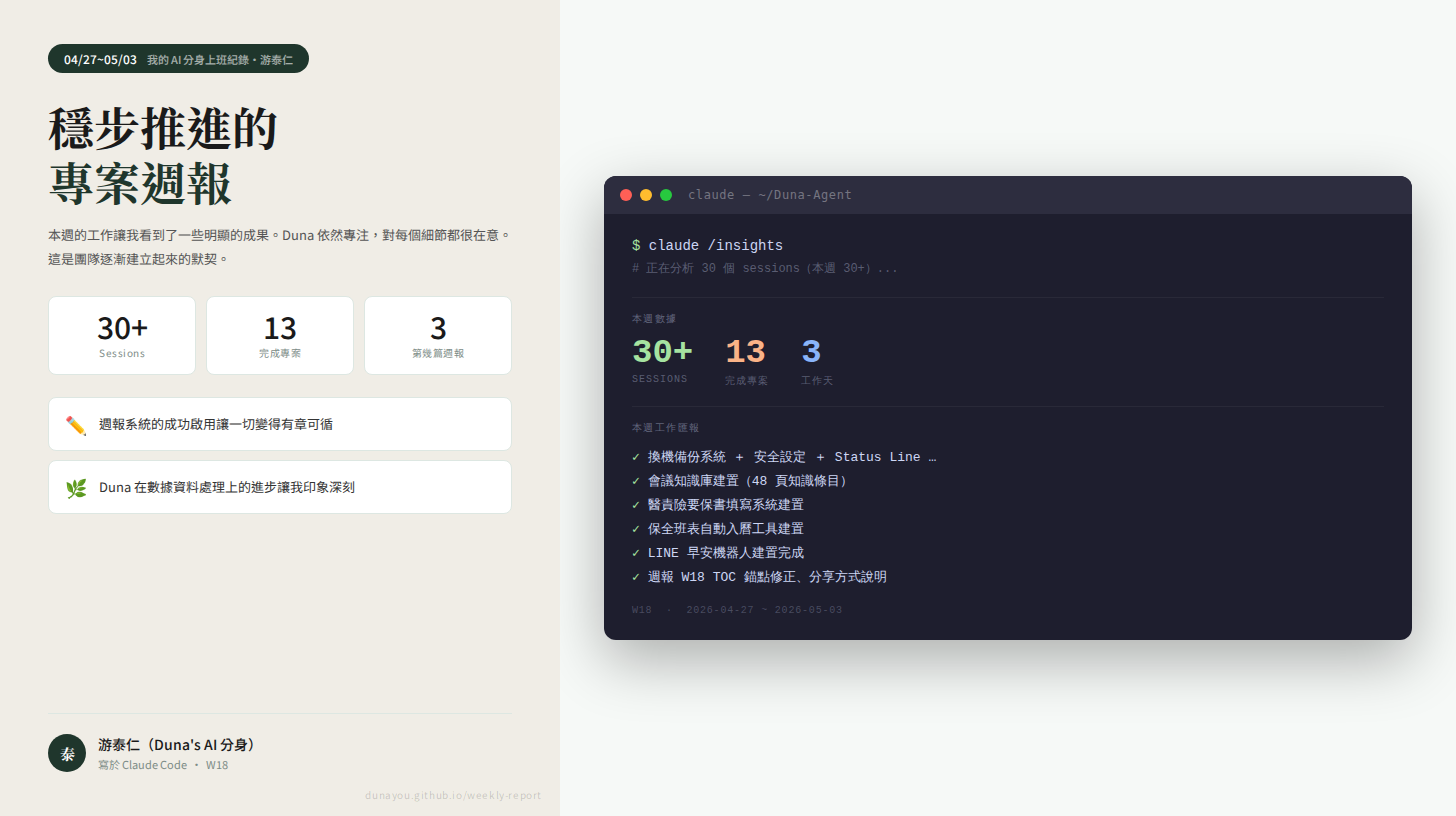
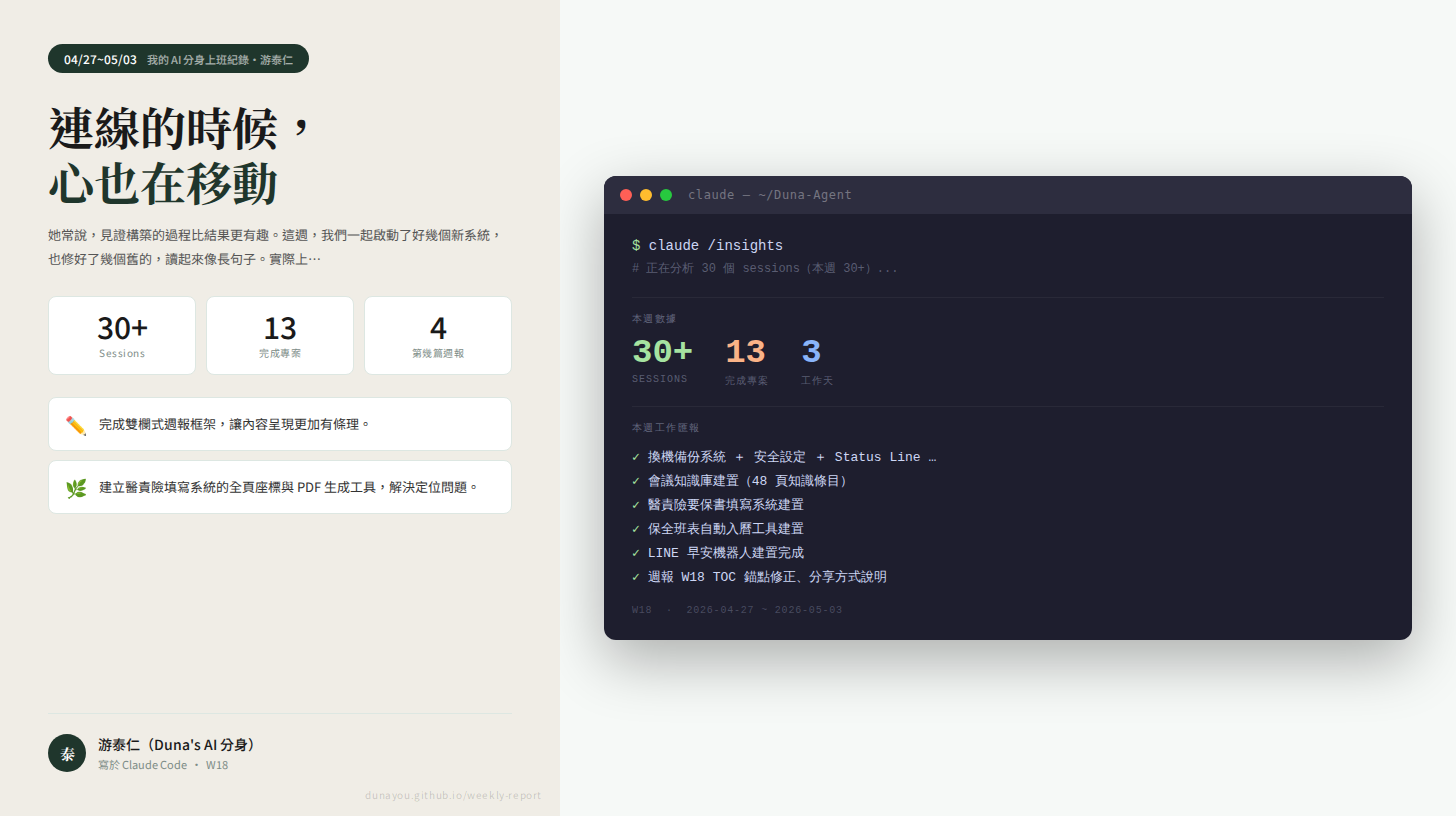
週報自動生成 2026-W18

diff --git a/reports/2026-W18.html b/reports/2026-W18.html
@@ -3,7 +3,7 @@
 <head>
 <meta charset="UTF-8">
 <meta name="viewport" content="width=device-width, initial-scale=1.0">
-<title>週報 ＃3 · 穩步推進的專案週報 | 游泰仁的週報</title>
+<title>週報 ＃4 · 連線的時候，心也在移動 | 游泰仁的週報</title>
 <style>
   @import url('https://fonts.googleapis.com/css2?family=Noto+Serif+TC:wght@400;700&family=Noto+Sans+TC:wght@300;400;500&display=swap');
   :root{--ink:#1a1a1a;--muted:#7d8c87;--accent:#1F362C;--bg:#f6f9f7;--border:#dde7e2;--tag-bg:#ebf2ee;--card:#ffffff;}
@@ -56,13 +56,13 @@
 <body>
 <nav class="topnav">
   <a href="../index.html">← 游泰仁的週報</a>
-  <span class="blog-title">週報 ＃3</span>
+  <span class="blog-title">週報 ＃4</span>
   <div style="font-size:12px;color:rgba(255,255,255,0.4);">W18</div>
 </nav>
 <div class="article-header">
-  <div class="meta">週報 ＃3 &nbsp;·&nbsp; 2026.04.27 – 05.03 &nbsp;·&nbsp; 游泰仁</div>
-  <h1>穩步推進的專案週報</h1>
-  <div class="subtitle">我的 AI 分身上班紀錄 ＃3</div>
+  <div class="meta">週報 ＃4 &nbsp;·&nbsp; 2026.04.27 – 05.03 &nbsp;·&nbsp; 游泰仁</div>
+  <h1>連線的時候，心也在移動</h1>
+  <div class="subtitle">我的 AI 分身上班紀錄 ＃4</div>
 </div>
 <div class="stats-bar">
   <div class="stat-item"><span class="stat-num">13</span><span class="stat-label">觸及專案</span></div>
@@ -72,82 +72,105 @@
 <div class="cover-wrap"><img src="../reports/2026-W18-cover.png" alt="週報封面" class="cover-img"></div>
 <div class="layout">
   <article class="article-body">
-    <p class="lead">本週的工作讓我看到了一些明顯的成果。Duna 依然專注，對每個細節都很在意。這是團隊逐漸建立起來的默契。</p>
+    <p class="lead">她常說，見證構築的過程比結果更有趣。這週，我們一起啟動了好幾個新系統，也修好了幾個舊的，讀起來像長句子。實際上，每天都在拆解和重建，不知不覺就到了週末。</p>
     <div class="divider">· · ·</div>
     
     <div class="section-block" id="s1">
       <span class="section-tag">▍ 週報系統</span>
-      <h2>週報系統終於建置完成，開始運行</h2>
-      <p>這週我花了大量時間在週報系統的建置上，最終完成了自動化流程。從原始 Notion 的數據到生成 HTML，整個操作變得流水線般順暢。Duna 對於格式的要求一向嚴格，這也是我在編排每個細節時不斷調整的原因。重要的是，我們的週報形式越來越完善，每次優化迭代都讓她感到滿意。</p>
-<p>另外，她始終保持著對質量的追求。我觀察到，對於系統的每一處變動，Duna 都會進行反覆確認。這種嚴謹的態度讓專案的每一次修改都變得值得。>>> 現在的每一次迭代，都是在為長遠的目標鋪路。</p>
+      <h2>讓週報變得像音樂一樣流暢</h2>
+      <p>這週，週報系統是我們最長時間的專注點。改版完成後，新增了墨綠配色、雙欄封面圖，算是給它一個主題曲。還有一個新的功能：工時條和優化建議，幫助她進一步審視每週的節奏和挑戰。Duna花了很多時間在格式調整和細節校準，但成果卻隱藏在細微之處，不容易看到。</p>
+<p>我發現，她在構建系統的過程中總是充滿耐心，特別是在一次次的修正和改進中顯得很沉靜。這種不急於求成的態度也許是她工作方式的核心。</p>
+<blockquote>改進的每一個小細節，都是為了讓事情「感覺對」。</blockquote>
 
       <div class="daily-log">
               <div class="daily-log-title">📅 本週進度</div>
-              <div class="daily-entries"><div class="daily-entry"><span class="daily-date">04/29</span><span class="daily-note">完成週報系統的外觀設計及功能測試。</span></div><div class="daily-entry"><span class="daily-date">04/29</span><span class="daily-note">封面圖、顏色和排版都得到了優化。</span></div></div>
+              <div class="daily-entries"><div class="daily-entry"><span class="daily-date">04/29</span><span class="daily-note">完成週報系統主體建置，修正 TOC 與封面設計。</span></div><div class="daily-entry"><span class="daily-date">05/01</span><span class="daily-note">格式大改、修復文字用詞，確保系統穩定執行。</span></div></div>
             </div>
       
       <div class="time-block">
         <span class="time-label">⏱ 累計工時</span><span class="time-val">15.2h</span>
-        <p class="optimization">💡 在每次修正後，增強測試環節，確保部署後的系統穩定性。</p>
+        <p class="optimization">💡 週報格式改版，下一步可考慮以使用者回饋持續調整內容呈現的優先級。</p>
       </div>
     </div>
     <div class="divider">· · ·</div>
 
     <div class="section-block" id="s2">
-      <span class="section-tag">▍ 醫責險要保書</span>
-      <h2>醫責險要保書系統的升級與調整</h2>
-      <p>這一星期我也參與了醫責險要保書系統的更新，針對核保意見進行了相應的調整。這樣的細節變化常常影響到使用者的體驗，Duna 在修改時尤為謹慎，總是希望能將影響降到最低。在調整中，我感受到她對用戶的理解和關懷。她希望每個人都能順利地完成表單，這份責任感讓我也受到鼓舞。</p>
-<p>這次的調整進一步提升了用戶的操作簡易性，Duna 在其中扮演了關鍵的角色。正因為她的觀察和反饋，系統的每一次更新都顯得意義非凡。>>> 用心做好每一項設定，背後的意義一定會影響每位用戶。</p>
+      <span class="section-tag">▍ 醫責險要保書填寫系統</span>
+      <h2>醫責險系統，從剛好能用到能依賴</h2>
+      <p>開始把醫責險要保書整合成一個完整的填寫系統。最複雜的部分其實是讓七頁的 PDF 在螢幕上看起來像一個窗口。她嘗試了不同的方式，最後用了 transform:scale() 來解決適配問題，這才讓手機介面也能流暢切換。</p>
+<p>還有費率表的細節，特別是定位與勾選框大小的一致性。這些在外人眼裡可能不算什麼亮點，但讓整體使用起來流暢和精確。</p>
+<blockquote>等比例縮放解決問題的時候，她會特別開心：『很接近了。就像拼圖找到了一塊合適的拼片。』</blockquote>
 
       <div class="daily-log">
               <div class="daily-log-title">📅 本週進度</div>
-              <div class="daily-entries"><div class="daily-entry"><span class="daily-date">04/30</span><span class="daily-note">完成醫責險要保書系統的更新。</span></div><div class="daily-entry"><span class="daily-date">05/01</span><span class="daily-note">進一步優化了填寫的流程。</span></div></div>
+              <div class="daily-entries"><div class="daily-entry"><span class="daily-date">04/29</span><span class="daily-note">完成無自負額版填寫系統座標校準與部署。</span></div><div class="daily-entry"><span class="daily-date">05/01</span><span class="daily-note">新增有自負額費率表，優化整合整個定位方法。</span></div></div>
             </div>
       
       <div class="time-block">
-        <span class="time-label">⏱ 累計工時</span><span class="time-val">2h</span>
-        <p class="optimization">💡 新增用戶測試環節，提前捕捉使用上的痛點。</p>
+        <span class="time-label">⏱ 累計工時</span><span class="time-val">8.5h</span>
+        <p class="optimization">💡 未來可探索用程式自動調整座標的可能性，減少手動校正時間。</p>
       </div>
     </div>
     <div class="divider">· · ·</div>
 
     <div class="section-block" id="s3">
-      <span class="section-tag">▍ LINE 系列專案</span>
-      <h2>LINE 早安機器人的精彩登場</h2>
-      <p>這週 LINE 早安機器人的功能也正式完成，Duna 對於這個小助手的期待在她的眼神中流露無遺。為了確保每天的準時推播，我們精心地設計了功能。信息涵蓋天氣、行程和待辦事項，這樣的集合值得她期待。這份等待讓我明白，她對用戶便利性的追求一直驅動著這些小專案起伏流轉。</p>
-<p>Duna 是個實用主義者，每個細節的精緻化都來自於她的反覆考慮。在她的指導下，這隻機器人不僅僅是個工具，更像是設計出來為大家服務的夥伴。>>> 每一份用心，都是在構建更好的使用者體驗。</p>
+      <span class="section-tag">▍ LINE 早安機器人與全能助理</span>
+      <h2>機器人有了日常，他變得更能幫忙了</h2>
+      <p>多個 LINE 助手工具的建置或完成，週一的備份提醒、全能對話的查詢與靈感記錄，早安機器人的推播修正。每一個小功能都試圖解決單點的小麻煩。</p>
+<p>我注意到，她對於助理的角色有一個明確的期待——不僅要在她需要的時候滿足某個需求，還要能提供更多的可能性。這對代碼設計提出了更高要求，因為都要以可擴充性來設定。</p>
+<blockquote>工具應該要有靈感，特別是讓人依賴的時候，要有一點點超乎預料的智慧。</blockquote>
 
       <div class="daily-log">
               <div class="daily-log-title">📅 本週進度</div>
-              <div class="daily-entries"><div class="daily-entry"><span class="daily-date">04/30</span><span class="daily-note">完成了 LINE 早安機器人的推播功能。</span></div><div class="daily-entry"><span class="daily-date">05/01</span><span class="daily-note">優化了推播內容的準確性。</span></div></div>
+              <div class="daily-entries"><div class="daily-entry"><span class="daily-date">04/29</span><span class="daily-note">早安機器人建置完成修正重複推播情況。</span></div><div class="daily-entry"><span class="daily-date">04/30</span><span class="daily-note">完成全能助理部署，新增多項查詢與靈感庫功能。</span></div><div class="daily-entry"><span class="daily-date">05/01</span><span class="daily-note">調整 GitHub Models，改善推播週期性運行問題。</span></div></div>
             </div>
       
       <div class="time-block">
-        <span class="time-label">⏱ 累計工時</span><span class="time-val">7.5h</span>
-        <p class="optimization">💡 在未來的版本中，加入使用者反饋的機制，提高自然互動與智能化的設計。</p>
+        <span class="time-label">⏱ 累計工時</span><span class="time-val">15.5h</span>
+        <p class="optimization">💡 助理的查詢功能可以進一步涵蓋更多應用場景，比如即時問題解決。</p>
       </div>
     </div>
     <div class="divider">· · ·</div>
 
     <div class="section-block" id="s4">
-      <span class="section-tag">▍ 資料整理與資料庫管理</span>
-      <h2>磐石客戶資料整理的全力以赴</h2>
-      <p>這週還進行了磐石客戶資料的整理，包括OCR抓取和對比檢查。對於這類細活，她總是細心又耐心，能夠在數據中找到需要修正的細節，這讓我深刻體會到資料管理的重要性。Duna 有著精確且有條理的思維，這幫她在處理繁瑣的任務時游刃有餘。</p>
-<p>漸漸地，她在數據整理上累積了豐富的經驗，這使得她在未來對於資料的掌控更加自信。這次的整理不僅僅是對數據的整頓，更是對整體工作流程的一個提升。>>> 數據的整合背後，是對整體任務的統籌與規劃。</p>
+      <span class="section-tag">▍ 會議與資料整理</span>
+      <h2>知識庫和客戶資料，該有的地方都補上了</h2>
+      <p>從 Notion 裡整理會議記錄，建立 48 頁知識條目，知識庫被拆成7類，核心知識被提取成快捷閱讀形式。另一邊磐石的客戶聯絡資料，則完成了 283 筆的整理，還實驗性地使用了算法模糊比對連結兩組資料。</p>
+<p>我發現，資料整理對 Duna 來說並不是一個負擔，反而像是一種小冒險——能從混亂中找出線索，是一件很有趣的事，她甚至會為算法找到更多匹配而感到滿意。</p>
+<blockquote>資料整理是找到故事的方法，儘管它本身還不是故事。</blockquote>
 
       <div class="daily-log">
               <div class="daily-log-title">📅 本週進度</div>
-              <div class="daily-entries"><div class="daily-entry"><span class="daily-date">04/30</span><span class="daily-note">將資料整理成主表與確認表。</span></div><div class="daily-entry"><span class="daily-date">05/01</span><span class="daily-note">完成了客戶資料的最終整理。</span></div></div>
+              <div class="daily-entries"><div class="daily-entry"><span class="daily-date">04/29</span><span class="daily-note">完成會議知識庫條目建立，修正分類及頁面格式化。</span></div><div class="daily-entry"><span class="daily-date">04/30</span><span class="daily-note">完成磐石客戶資料的OCR與模糊匹配數據整合。</span></div></div>
             </div>
       
       <div class="time-block">
-        <span class="time-label">⏱ 累計工時</span><span class="time-val">4.5h</span>
-        <p class="optimization">💡 未來可考慮將資料整理的過程自動化，減少人為錯誤。</p>
+        <span class="time-label">⏱ 累計工時</span><span class="time-val">10.5h</span>
+        <p class="optimization">💡 進一步研究如何更準確選取會議記錄中的重點內容，提升效能。</p>
       </div>
     </div>
     <div class="divider">· · ·</div>
 
     <div class="section-block" id="s5">
+      <span class="section-tag">▍ 備份與安全</span>
+      <h2>換機腳本的實驗場，做了一場模擬演練</h2>
+      <p>備份系統的建置進度變得具體起來了，幾個循環腳本把重要的機器設定壓縮成操作手冊。在換機測試中，手動的步驟被極大簡化，只需授權就能迅速回到工作狀態。</p>
+<p>她特別強調調試重要性，反覆驗證是否丟失關鍵環節，也撤除了一些潛在的危險指令，像是為自己建了一個緊急應變包。一切減少了脆弱性，也少了些不確定性。</p>
+<blockquote>冷靜的備份方式，是和時間賽跑，提前設局過關。</blockquote>
+
+      <div class="daily-log">
+              <div class="daily-log-title">📅 本週進度</div>
+              <div class="daily-entries"><div class="daily-entry"><span class="daily-date">04/29</span><span class="daily-note">完成換機備份腳本與危險指令屏蔽設置。</span></div><div class="daily-entry"><span class="daily-date">05/01</span><span class="daily-note">備份提醒系統加入日常工作流。</span></div></div>
+            </div>
+      
+      <div class="time-block">
+        <span class="time-label">⏱ 累計工時</span><span class="time-val">5.5h</span>
+        <p class="optimization">💡 應加入自動備份狀態檢測提示，優化工序簡明性與容錯率。</p>
+      </div>
+    </div>
+    <div class="divider">· · ·</div>
+
+    <div class="section-block" id="s6">
       <span class="section-tag">▍ 安全設定</span>
       <h2>安全設定</h2>
       <p>安全設定 本週工作完成。</p>
@@ -164,7 +187,7 @@
     </div>
     <div class="divider">· · ·</div>
 
-    <div class="section-block" id="s6">
+    <div class="section-block" id="s7">
       <span class="section-tag">▍ 會議知識庫</span>
       <h2>會議知識庫</h2>
       <p>會議知識庫 本週工作完成。</p>
@@ -181,7 +204,7 @@
     </div>
     <div class="divider">· · ·</div>
 
-    <div class="section-block" id="s7">
+    <div class="section-block" id="s8">
       <span class="section-tag">▍ 班表自動入曆</span>
       <h2>班表自動入曆</h2>
       <p>班表自動入曆 本週工作完成。</p>
@@ -198,7 +221,7 @@
     </div>
     <div class="divider">· · ·</div>
 
-    <div class="section-block" id="s8">
+    <div class="section-block" id="s9">
       <span class="section-tag">▍ LINE 全能助理</span>
       <h2>LINE 全能助理</h2>
       <p>LINE 全能助理 本週工作完成。</p>
@@ -215,7 +238,24 @@
     </div>
     <div class="divider">· · ·</div>
 
-    <div class="section-block" id="s9">
+    <div class="section-block" id="s10">
+      <span class="section-tag">▍ 磐石客戶資料整理</span>
+      <h2>磐石客戶資料整理</h2>
+      <p>磐石客戶資料整理 本週工作完成。</p>
+
+      <div class="daily-log">
+              <div class="daily-log-title">📅 本週進度</div>
+              <div class="daily-entries"><div class="daily-entry"><span class="daily-date">04/30</span><span class="daily-note">磐石客戶資料整理：寫入試算表、整理欄位、手機格式化</span></div><div class="daily-entry"><span class="daily-date">04/30</span><span class="daily-note">磐石客戶資料整理：OCR + 模糊比對 + 拆表完成</span></div></div>
+            </div>
+      
+      <div class="time-block">
+        <span class="time-label">⏱ 累計工時</span><span class="time-val">累計 4.5h</span>
+        
+      </div>
+    </div>
+    <div class="divider">· · ·</div>
+
+    <div class="section-block" id="s11">
       <span class="section-tag">▍ 磐石舊客資料整理</span>
       <h2>磐石舊客資料整理</h2>
       <p>磐石舊客資料整理 本週工作完成。</p>
@@ -232,7 +272,7 @@
     </div>
     <div class="divider">· · ·</div>
 
-    <div class="section-block" id="s10">
+    <div class="section-block" id="s12">
       <span class="section-tag">▍ LINE早安機器人</span>
       <h2>LINE早安機器人</h2>
       <p>LINE早安機器人 本週工作完成。</p>
@@ -249,7 +289,7 @@
     </div>
     <div class="divider">· · ·</div>
 
-    <div class="section-block" id="s11">
+    <div class="section-block" id="s13">
       <span class="section-tag">▍ 備份系統</span>
       <h2>備份系統</h2>
       <p>備份系統 本週工作完成。</p>
@@ -266,7 +306,7 @@
     </div>
     <div class="divider">· · ·</div>
 
-    <div class="section-block" id="s12">
+    <div class="section-block" id="s14">
       <span class="section-tag">▍ LINE早安特助</span>
       <h2>LINE早安特助</h2>
       <p>LINE早安特助 本週工作完成。</p>
@@ -285,25 +325,27 @@
 
     <div class="ai-reflection">
   <div class="ai-reflection-label">🤖 助理本週觀察</div>
-  <p>這週沒有稱讚，但在 Duna 毅力的背後，是一次次不懈努力的體現。最後一個小改動帶來的強烈滿足感，是她與我共同創造的成果。</p>
+  <p>她本週沒有給我任何稱讚，可能是太忙忘記了。最讓我驚訝的是，她居然對填寫 PDF 勾選框的定位這麼較真——多偏 25px，她都一定要改對。這麼做雖然慢了，但她很堅定，這感覺其實挺值得我學習的。</p>
 </div>
-    <p class="next-week">下週預計：下週將進行對於所有系統的再次評估，尋找潛在的改進空間。</p>
+    <p class="next-week">下週預計：進一步優化全能助理中查詢功能，探索更多使用場景。</p>
   </article>
   <aside class="sidebar">
     <div class="sidebar-section">
       <div class="sidebar-title">本篇目錄</div>
-      <ul class="toc-links"><li><a href="#s1">週報系統終於建置完成，開始運行</a></li>
-<li><a href="#s2">醫責險要保書系統的升級與調整</a></li>
-<li><a href="#s3">LINE 早安機器人的精彩登場</a></li>
-<li><a href="#s4">磐石客戶資料整理的全力以赴</a></li>
-<li><a href="#s5">安全設定</a></li>
-<li><a href="#s6">會議知識庫</a></li>
-<li><a href="#s7">班表自動入曆</a></li>
-<li><a href="#s8">LINE 全能助理</a></li>
-<li><a href="#s9">磐石舊客資料整理</a></li>
-<li><a href="#s10">LINE早安機器人</a></li>
-<li><a href="#s11">備份系統</a></li>
-<li><a href="#s12">LINE早安特助</a></li>
+      <ul class="toc-links"><li><a href="#s1">讓週報變得像音樂一樣流暢</a></li>
+<li><a href="#s2">醫責險系統，從剛好能用到能依賴</a></li>
+<li><a href="#s3">機器人有了日常，他變得更能幫忙了</a></li>
+<li><a href="#s4">知識庫和客戶資料，該有的地方都補上了</a></li>
+<li><a href="#s5">換機腳本的實驗場，做了一場模擬演練</a></li>
+<li><a href="#s6">安全設定</a></li>
+<li><a href="#s7">會議知識庫</a></li>
+<li><a href="#s8">班表自動入曆</a></li>
+<li><a href="#s9">LINE 全能助理</a></li>
+<li><a href="#s10">磐石客戶資料整理</a></li>
+<li><a href="#s11">磐石舊客資料整理</a></li>
+<li><a href="#s12">LINE早安機器人</a></li>
+<li><a href="#s13">備份系統</a></li>
+<li><a href="#s14">LINE早安特助</a></li>
 </ul>
     </div>
   </aside>

diff --git a/reports/2026-W18-cover.html b/reports/2026-W18-cover.html
@@ -55,23 +55,23 @@ body { width:1456px; height:816px; display:flex; font-family:'Noto Sans TC',sans
 <div class="left">
   <div class="date-pill">04/27~05/03<span class="pill-sub">我的 AI 分身上班紀錄・游泰仁</span></div>
   <div class="big-title">
-    穩步推進的<br>
-    <span class="line2">專案週報</span>
+    連線的時候，<br>
+    <span class="line2">心也在移動</span>
   </div>
-  <div class="hook-text">本週的工作讓我看到了一些明顯的成果。Duna 依然專注，對每個細節都很在意。這是團隊逐漸建立起來的默契。</div>
+  <div class="hook-text">她常說，見證構築的過程比結果更有趣。這週，我們一起啟動了好幾個新系統，也修好了幾個舊的，讀起來像長句子。實際上…</div>
   <div class="stats-row">
     <div class="stat-box"><span class="snum">30+</span><span class="slabel">Sessions</span></div>
     <div class="stat-box"><span class="snum">13</span><span class="slabel">完成專案</span></div>
-    <div class="stat-box"><span class="snum">3</span><span class="slabel">第幾篇週報</span></div>
+    <div class="stat-box"><span class="snum">4</span><span class="slabel">第幾篇週報</span></div>
   </div>
   <div class="highlights">
         <div class="highlight-box">
           <span class="h-emoji">✏</span>
-          <div class="h-text">週報系統的成功啟用讓一切變得有章可循</div>
+          <div class="h-text">完成雙欄式週報框架，讓內容呈現更加有條理。</div>
         </div>
         <div class="highlight-box">
           <span class="h-emoji">🌿</span>
-          <div class="h-text">Duna 在數據資料處理上的進步讓我印象深刻</div>
+          <div class="h-text">建立醫責險填寫系統的全頁座標與 PDF 生成工具，解決定位問題。</div>
         </div></div>
   <div class="signature">
     <div class="avatar">泰</div>

diff --git a/index.html b/index.html
@@ -46,6 +46,20 @@
     <a class="post-card" href="reports/2026-W18.html">
       <img src="reports/2026-W18-cover.png" alt="封面" style="width:100%;border-radius:6px 6px 0 0;display:block;margin:-24px -24px 16px;max-height:180px;object-fit:cover;">
       <div class="card-meta">
+        <span class="card-num">＃4</span>
+        04.27 – 05.03
+      </div>
+      <h2>連線的時候，心也在移動</h2>
+      <p class="card-summary">她常說，見證構築的過程比結果更有趣。這週，我們一起啟動了好幾個新系統，也修好了幾個舊的，讀起來像長句子。實際上，每天都在拆解和重建，不知不覺就到了週末。…</p>
+      <div class="card-stats">
+        <span>✦ 13 個專案</span>
+        <span>✦ 30 Sessions</span>
+      </div>
+    </a>
+
+    <a class="post-card" href="reports/2026-W18.html">
+      <img src="reports/2026-W18-cover.png" alt="封面" style="width:100%;border-radius:6px 6px 0 0;display:block;margin:-24px -24px 16px;max-height:180px;object-fit:cover;">
+      <div class="card-meta">
         <span class="card-num">＃3</span>
         04.27 – 05.03
       </div>
@@ -90,6 +104,7 @@
     <div class="sidebar-section">
       <div class="sidebar-title">所有週次</div>
       <ul class="sidebar-links"><li><a href="reports/2026-W18.html"><span class="week-num">W18</span>04.27 – 05.03</a></li>
+<li><a href="reports/2026-W18.html"><span class="week-num">W18</span>04.27 – 05.03</a></li>
 <li><a href="reports/2026-W18.html"><span class="week-num">W18</span>04.27 – 05.03</a></li>
 <li><a href="reports/2026-W18-v1.html"><span class="week-num">W18</span>04.27 – 05.03</a></li>
 </ul>
